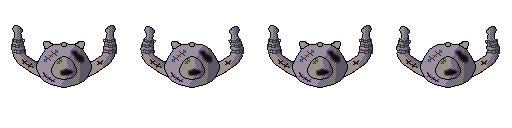
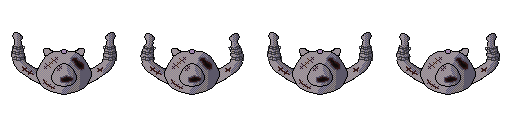
Corrected small positioning error in Stitches' sprite sheet. Changed offsets for drawing the hook line to reflect new changes. Corrected issue where Zombats could still drain the player while he is invulnerable.

Changed region(s): [[0.0, 0.1875, 1.0, 0.75]]

diff --git a/GenericZombieShooter/src/genericzombieshooter/actors/StitchesBoss.java b/GenericZombieShooter/src/genericzombieshooter/actors/StitchesBoss.java
@@ -71,11 +71,11 @@ public class StitchesBoss extends Zombie {
                 Particle p = it.next();
                 if(p.isAlive() || this.hooked) {
                     Stroke s = g2d.getStroke();
-                    p.draw(g2d);
                     g2d.setColor(Color.BLACK);
                     g2d.setStroke(new BasicStroke(2.0f));
-                    g2d.drawLine((int)(this.x), (int)(this.y - 20), (int)p.getPos().x, (int)p.getPos().y);
+                    g2d.drawLine((int)(this.x), (int)(this.y), (int)p.getPos().x, (int)p.getPos().y);
                     g2d.setStroke(s);
+                    p.draw(g2d);
                 }
             }
         }
@@ -95,6 +95,11 @@ public class StitchesBoss extends Zombie {
                     // If the hook hasn't attached to something yet...
                     if(!this.hooked) p.update();
                     else p.setPos(new Point2D.Double(player.getCenterX(), player.getCenterY())); // Otherwise, move it to the player...
+                    
+                    { // Update the hook's theta.
+                        double theta = Math.atan2((player.y - p.getPos().y), (player.x - p.getPos().x)) - Math.PI;
+                        p.setTheta(theta);
+                    } // End hook's theta update.
                     
                     // If not hooked and the hook is not alive or is out of bounds... remove it.
                     if(!this.hooked && (!p.isAlive() || p.outOfBounds())) {
@@ -157,9 +162,9 @@ public class StitchesBoss extends Zombie {
     @Override
     public void draw(Graphics2D g2d) {
         AffineTransform saved = g2d.getTransform();
+        if(!this.particles.isEmpty()) drawParticles(g2d);
         super.draw(g2d);
         g2d.setTransform(saved);
-        if(!this.particles.isEmpty()) drawParticles(g2d);
     }
     
     private void throwHook(Point2D.Double playerPos) {

diff --git a/GenericZombieShooter/src/genericzombieshooter/actors/ZombatBoss.java b/GenericZombieShooter/src/genericzombieshooter/actors/ZombatBoss.java
@@ -18,6 +18,7 @@ package genericzombieshooter.actors;
 
 import genericzombieshooter.misc.Globals;
 import genericzombieshooter.structures.Animation;
+import genericzombieshooter.structures.items.Invulnerability;
 import java.awt.geom.Point2D;
 import java.util.List;
 
@@ -58,9 +59,11 @@ public class ZombatBoss extends Zombie {
     }
     
     private void drain(Player player) {
-        player.takeDamage(ZombatBoss.DRAIN_AMOUNT);
-        this.health += ZombatBoss.DRAIN_AMOUNT;
-        if(this.health > this.maxHealth) this.health = this.maxHealth;
+        if(!player.hasEffect(Invulnerability.EFFECT_NAME)) {
+            player.takeDamage(ZombatBoss.DRAIN_AMOUNT);
+            this.health += ZombatBoss.DRAIN_AMOUNT;
+            if(this.health > this.maxHealth) this.health = this.maxHealth;
+        }
     }
     
     private boolean inRange(Point2D.Double playerPos, Point2D.Double myPos) {

diff --git a/GenericZombieShooter/src/genericzombieshooter/structures/Particle.java b/GenericZombieShooter/src/genericzombieshooter/structures/Particle.java
@@ -31,6 +31,7 @@ import java.awt.image.BufferedImage;
  */
 public class Particle {
     protected double theta;
+    public void setTheta(double theta) { this.theta = theta; }
     protected double speed;
     protected int life;
     public boolean isAlive() { return this.life > 0; }
